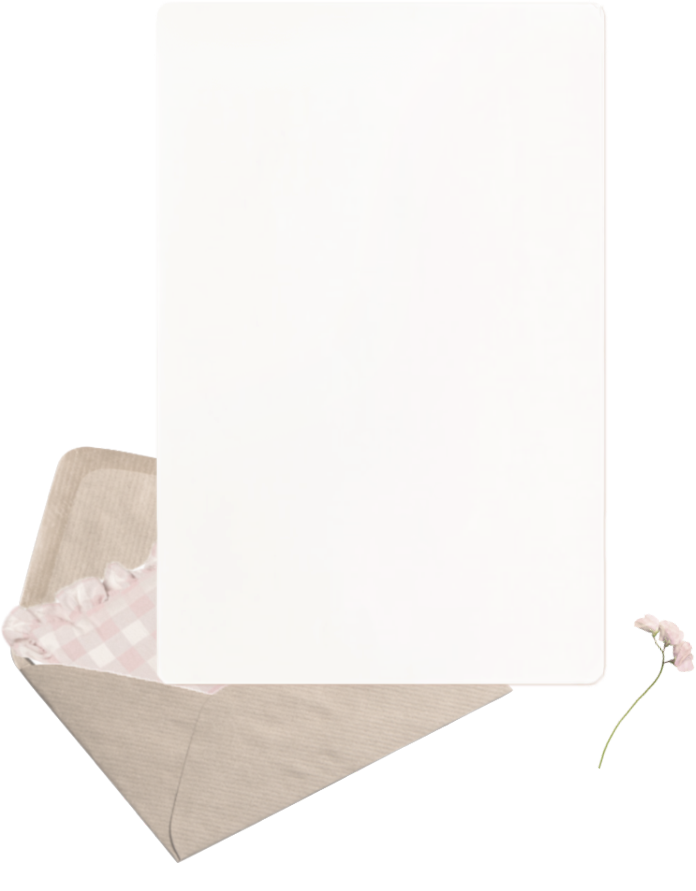
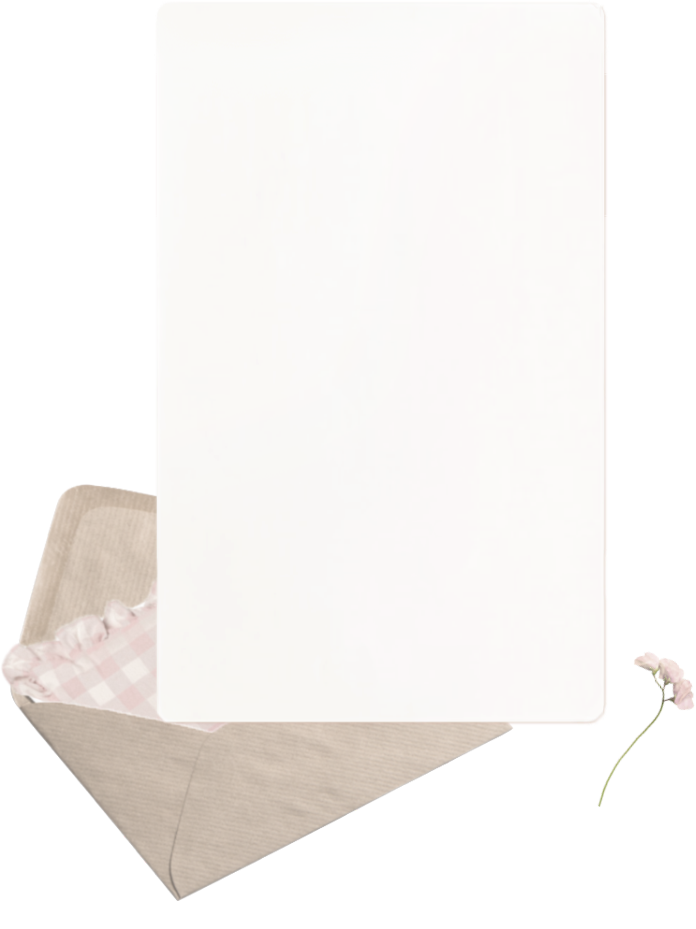
+

diff --git a/index.html b/index.html
@@ -167,7 +167,7 @@ document.execCommand("copy");
 <font style="font-family:'Gabriola'; color:#c4acab; font-weight:normal; font-size:15px; text-shadow:1px 1px 1px #fff;">do you like mail exchanging ?<br>how about writing virtual letters ?</font><br>
 if yes, you may have noticed how difficult it can be to prepare a cute email, since most platforms have poor integrated tools and limitations to prevent inconsistences between different devices.<br>
 even by coding html there still are some restrictions on how much you can format an email, so it is a bit hard for beginners.<br>
-i love sending cute virtual letters to my friends & family, so i made this template to help those who need. it's not perfect on every device but it has a good size, it's readable, clean, and works good enough. for small screens it looks better when removing 1 out of the 4 sequential lace border images, which you can do easily.<br>
+i love sending cute virtual letters to my friends & family, so i made this template to help those who need. i did my best to make it work for every device, even small mobile screens. it has a good size, it's readable, clean, and works.<br>
 feel free to use and customize it as you like, no credits needed !<br>
 ( linking to this site would be appreciated though )<br><br>
 <font style="font-family:'Gabriola'; color:#c4acab; font-weight:normal; font-size:15px; text-shadow:1px 1px 1px #fff;">instructions for use :</font> <font color="#9c8484">customize the colors and images as you wish, then select & copy the template as it's displayed here, and simply paste it on the "compose" box in your preferred email platform.<br>
@@ -176,7 +176,7 @@ if interested in deeply editing things here, feel free to change the html code i
 
 </div>
 
-<a oncontextmenu="return false" ondragstart="return false" href="https://middlepot.com" target="_blank"><img style="z-index:3; position:absolute; left:480px; top:1210px;    -webkit-user-select: none;
+<a oncontextmenu="return false" ondragstart="return false" href="https://middlepot.com" target="_blank"><img style="z-index:3; position:absolute; left:480px; top:1248px;    -webkit-user-select: none;
     -khtml-user-select: none;
     -moz-user-select: none;
     -o-user-select: none;
@@ -268,7 +268,7 @@ function copyCode(){
 
 
 
-<a><img ondragstart="return false" onclick="copyCode();" style="display:block; z-index:5; position:absolute; left:850px; top:1205px;    -webkit-user-select: none;
+<a><img ondragstart="return false" onclick="copyCode();" style="display:block; z-index:5; position:absolute; left:850px; top:1245px;    -webkit-user-select: none;
     -khtml-user-select: none;
     -moz-user-select: none;
     -o-user-select: none;
@@ -315,52 +315,52 @@ function copyCode(){
 
 </table>
 
-<div id="template" style="display:block; z-index:5; position:absolute; left:460px; top:515px; width:420px; height:685px; overflow: auto; overflow: scroll; line-height:13px;"><img group="topLaceImage" style="max-width:100px; height:auto;" src="https://middlepot.com/img/mailtemplatelace1.png"><img group="topLaceImage" style="max-width:100px; height:auto;" src="https://middlepot.com/img/mailtemplatelace1.png"><img group="topLaceImage" style="max-width:100px; height:auto;" src="https://middlepot.com/img/mailtemplatelace1.png"><img group="topLaceImage" style="max-width:100px; height:auto;" src="https://middlepot.com/img/mailtemplatelace1.png">
+<div id="template" style="display:block; z-index:5; position:absolute; left:460px; top:515px; width:420px; height:720px; overflow: auto; overflow: scroll; line-height:13px;"><img group="topLaceImage" style="max-width:400px; height:auto;" src="https://middlepot.com/img/mailtemplatelace1.png">
 
+<table style="width:360px; padding:20px;">
+<tbody><tr style="font-weight: normal; text-align:left;"><th style="font-weight: normal; text-align:left;">
 <font group="mainTextColor" style="font-family: verdana; font-size:11px; color:#bdabaa;">
-<br><br>
-<font group="accentTextColor" color="#d4bcba">　　recipient's name</font><br><br>
+<font group="accentTextColor" color="#d4bcba">recipient's name</font><br><br>
 
-　　this is an example text. you can write whatever you like here,<br>
-　　just keep breaking lines to keep the text properly organized<br>
-　　within the template width !<br>
+this is an example text. you can write whatever you like here, just try to keep things properly organized within the template width !<br>
 <br>
-<font group="accentTextColor" color="#d4bcba">　　this is a text with an accent color</font><br>
-　　<b>this is a bold text</b>　<i>and an italic text</i>　<small>and a small text</small><br>
-　　<a href="https://middlepot.com" target="_blank" style="text-decoration:none; color:#ccb1b1; font-size:x-small; border-bottom:1px dotted #ccb1b1;">this is a style of link with color</a>　<a href="https://middlepot.com" target="_blank" group="mainTextColor" style="text-decoration:none; color: #bdabaa;"><b>and a bold style of link</b></a><br>
-<br>
-　　<font group="accentTextColor" color="#d4bcba">・</font> this is a photo properly inserted in the template :<br><br>
-　<img group="insertedImage" style="max-width:370px; height:auto;" src="https://middlepot.com/img/letters.jpg"><br>
+<font group="accentTextColor" color="#d4bcba">this is a text with an accent color</font><br>
+<b>this is a bold text</b>　<i>and an italic text</i>　<small>and a small text</small><br>
+<a href="https://middlepot.com" target="_blank" style="text-decoration:none; color:#ccb1b1; font-size:x-small; border-bottom:1px dotted #ccb1b1;">this is a style of link with color</a>　<a href="https://middlepot.com" target="_blank" group="mainTextColor" style="text-decoration:none; color: #bdabaa;"><b>and a bold style of link</b></a><br>
 <br>
 
-　　<font group="accentTextColor" color="#d4bcba">・</font> these are some of my emojis from <a href="https://emoji.pooftie.me" target="_blank" style="text-decoration:none; color:#ccb1b1; font-size:x-small; border-bottom:1px dotted #ccb1b1;">emoji.pooftie.me</a> :<br>
-　　　<sub>
-    <img group="emojiImage1" style="max-width:20px; max-height:20px;" src="https://middlepot.com/emojis/%F0%9F%8D%AA.gif"></sub><sub>
-    <img group="emojiImage2" style="max-width:20px; max-height:20px;" src="https://middlepot.com/emojis/%F0%9F%91%92.gif"></sub><sub>
-    <img group="emojiImage3" style="max-width:20px; max-height:20px;" src="https://middlepot.com/emojis/%F0%9F%8F%A0.gif"></sub><sub>
-    <img group="emojiImage4" style="max-width:20px; max-height:20px;" src="https://middlepot.com/emojis/%F0%9F%A7%BA.gif"></sub><sub>
-    <img group="emojiImage5" style="max-width:20px; max-height:20px;" src="https://middlepot.com/emojis/%F0%9F%A7%B7.gif"></sub><sub>
-    <img group="emojiImage6" style="max-width:20px; max-height:20px;" src="https://middlepot.com/emojis/%F0%9F%A7%B8.gif"></sub><sub>
-    <img group="emojiImage7" style="max-width:20px; max-height:20px;" src="https://middlepot.com/emojis/%E2%98%8E%EF%B8%8F.gif"></sub><sub>
-    <img group="emojiImage8" style="max-width:20px; max-height:20px;" src="https://middlepot.com/emojis/%F0%9F%92%98.gif"></sub><sub>
-    <img group="emojiImage9" style="max-width:20px; max-height:20px;" src="https://middlepot.com/emojis/%F0%9F%96%87.gif"></sub><sub>
-    <img group="emojiImage10" style="max-width:20px; max-height:20px;" src="https://middlepot.com/emojis/%F0%9F%8E%80.gif"></sub></sub><br>
-
-　　<font group="accentTextColor" color="#d4bcba">・</font> more graphics can be downloaded at <a href="https://sozai.pooftie.me" target="_blank" style="text-decoration:none; color:#ccb1b1; font-size:x-small; border-bottom:1px dotted #ccb1b1;">sozai.pooftie.me</a><br>
-　　<font group="accentTextColor" color="#d4bcba">・</font> cute symbols can be copied at <a href="https://ascii.pooftie.me" target="_blank" style="text-decoration:none; color:#ccb1b1; font-size:x-small; border-bottom:1px dotted #ccb1b1;">ascii.pooftie.me</a><br>
+<font group="accentTextColor" color="#d4bcba">・</font> this is a photo properly inserted in the template :<br><br>
+<img group="insertedImage" style="max-width:360px; height:auto;" src="https://middlepot.com/img/letters.jpg"><br>
 <br>
-　　please enjoy your email template <font group="accentTextColor" color="#d4bcba">♡</font><br>
 
-　　 　　　 　　　　 　　　　　　　　　　　　　　<font group="accentTextColor" color="#d4bcba">sender's signature</font>
-<br><br></font>
-<img group="bottomLaceImage" style="max-width:100px; height:auto;" src="https://middlepot.com/img/mailtemplatelace2.png"><img group="bottomLaceImage" style="max-width:100px; height:auto;" src="https://middlepot.com/img/mailtemplatelace2.png"><img group="bottomLaceImage" style="max-width:100px; height:auto;" src="https://middlepot.com/img/mailtemplatelace2.png"><img group="bottomLaceImage" style="max-width:100px; height:auto;" src="https://middlepot.com/img/mailtemplatelace2.png"></div>
+<font group="accentTextColor" color="#d4bcba">・</font> these are some of my emojis from <a href="https://emoji.pooftie.me" target="_blank" style="text-decoration:none; color:#ccb1b1; font-size:x-small; border-bottom:1px dotted #ccb1b1;">emoji.pooftie.me</a> :<br>
+　 <sub>
+<img group="emojiImage1" style="max-width:20px; max-height:20px;" src="https://middlepot.com/emojis/%F0%9F%8D%AA.gif"></sub><sub>
+<img group="emojiImage2" style="max-width:20px; max-height:20px;" src="https://middlepot.com/emojis/%F0%9F%91%92.gif"></sub><sub>
+<img group="emojiImage3" style="max-width:20px; max-height:20px;" src="https://middlepot.com/emojis/%F0%9F%8F%A0.gif"></sub><sub>
+<img group="emojiImage4" style="max-width:20px; max-height:20px;" src="https://middlepot.com/emojis/%F0%9F%A7%BA.gif"></sub><sub>
+<img group="emojiImage5" style="max-width:20px; max-height:20px;" src="https://middlepot.com/emojis/%F0%9F%A7%B7.gif"></sub><sub>
+<img group="emojiImage6" style="max-width:20px; max-height:20px;" src="https://middlepot.com/emojis/%F0%9F%A7%B8.gif"></sub><sub>
+<img group="emojiImage7" style="max-width:20px; max-height:20px;" src="https://middlepot.com/emojis/%E2%98%8E%EF%B8%8F.gif"></sub><sub>
+<img group="emojiImage8" style="max-width:20px; max-height:20px;" src="https://middlepot.com/emojis/%F0%9F%92%98.gif"></sub><sub>
+<img group="emojiImage9" style="max-width:20px; max-height:20px;" src="https://middlepot.com/emojis/%F0%9F%96%87.gif"></sub><sub>
+<img group="emojiImage10" style="max-width:20px; max-height:20px;" src="https://middlepot.com/emojis/%F0%9F%8E%80.gif"></sub><br>
+
+<font group="accentTextColor" color="#d4bcba">・</font> more graphics can be downloaded at <a href="https://sozai.pooftie.me" target="_blank" style="text-decoration:none; color:#ccb1b1; font-size:x-small; border-bottom:1px dotted #ccb1b1;">sozai.pooftie.me</a><br>
+<font group="accentTextColor" color="#d4bcba">・</font> cute symbols can be copied at <a href="https://ascii.pooftie.me" target="_blank" style="text-decoration:none; color:#ccb1b1; font-size:x-small; border-bottom:1px dotted #ccb1b1;">ascii.pooftie.me</a><br>
+<br>
+please enjoy your email template <font group="accentTextColor" color="#d4bcba">♡</font><br>
+<br>
+<font group="accentTextColor" color="#d4bcba" style="float:right;">sender's signature</font>
+<br></font></th></tr></tbody></table>
+<img group="bottomLaceImage" style="max-width:400px; height:auto;" src="https://middlepot.com/img/mailtemplatelace2.png"></div>
 
 
 
 
 <div id="htmlcode" style="display:none; z-index:5; position:absolute; left:440px; top:520px; width:700px; overflow:hidden;">
 
-<textarea id="templatecode" style="height:665px; width:440px; border:none; line-height:13px; overflow: auto; overflow: scroll;outline: none; resize: none;cursor: url(cursorh.png), progress;outline:none; padding:10px; background-color:rgba(255, 255, 255, 0.01); font-size:10px; letter-spacing:0.3px; font-family:Verdana; COLOR: #bdabaa;" rows="10" cols="40" wrap="soft">
+<textarea id="templatecode" style="height:700px; width:440px; border:none; line-height:13px; overflow: auto; overflow: scroll;outline: none; resize: none;cursor: url(cursorh.png), progress;outline:none; padding:10px; background-color:rgba(255, 255, 255, 0.01); font-size:10px; letter-spacing:0.3px; font-family:Verdana; COLOR: #bdabaa;" rows="10" cols="40" wrap="soft">
 </textarea>
 
 </div>
